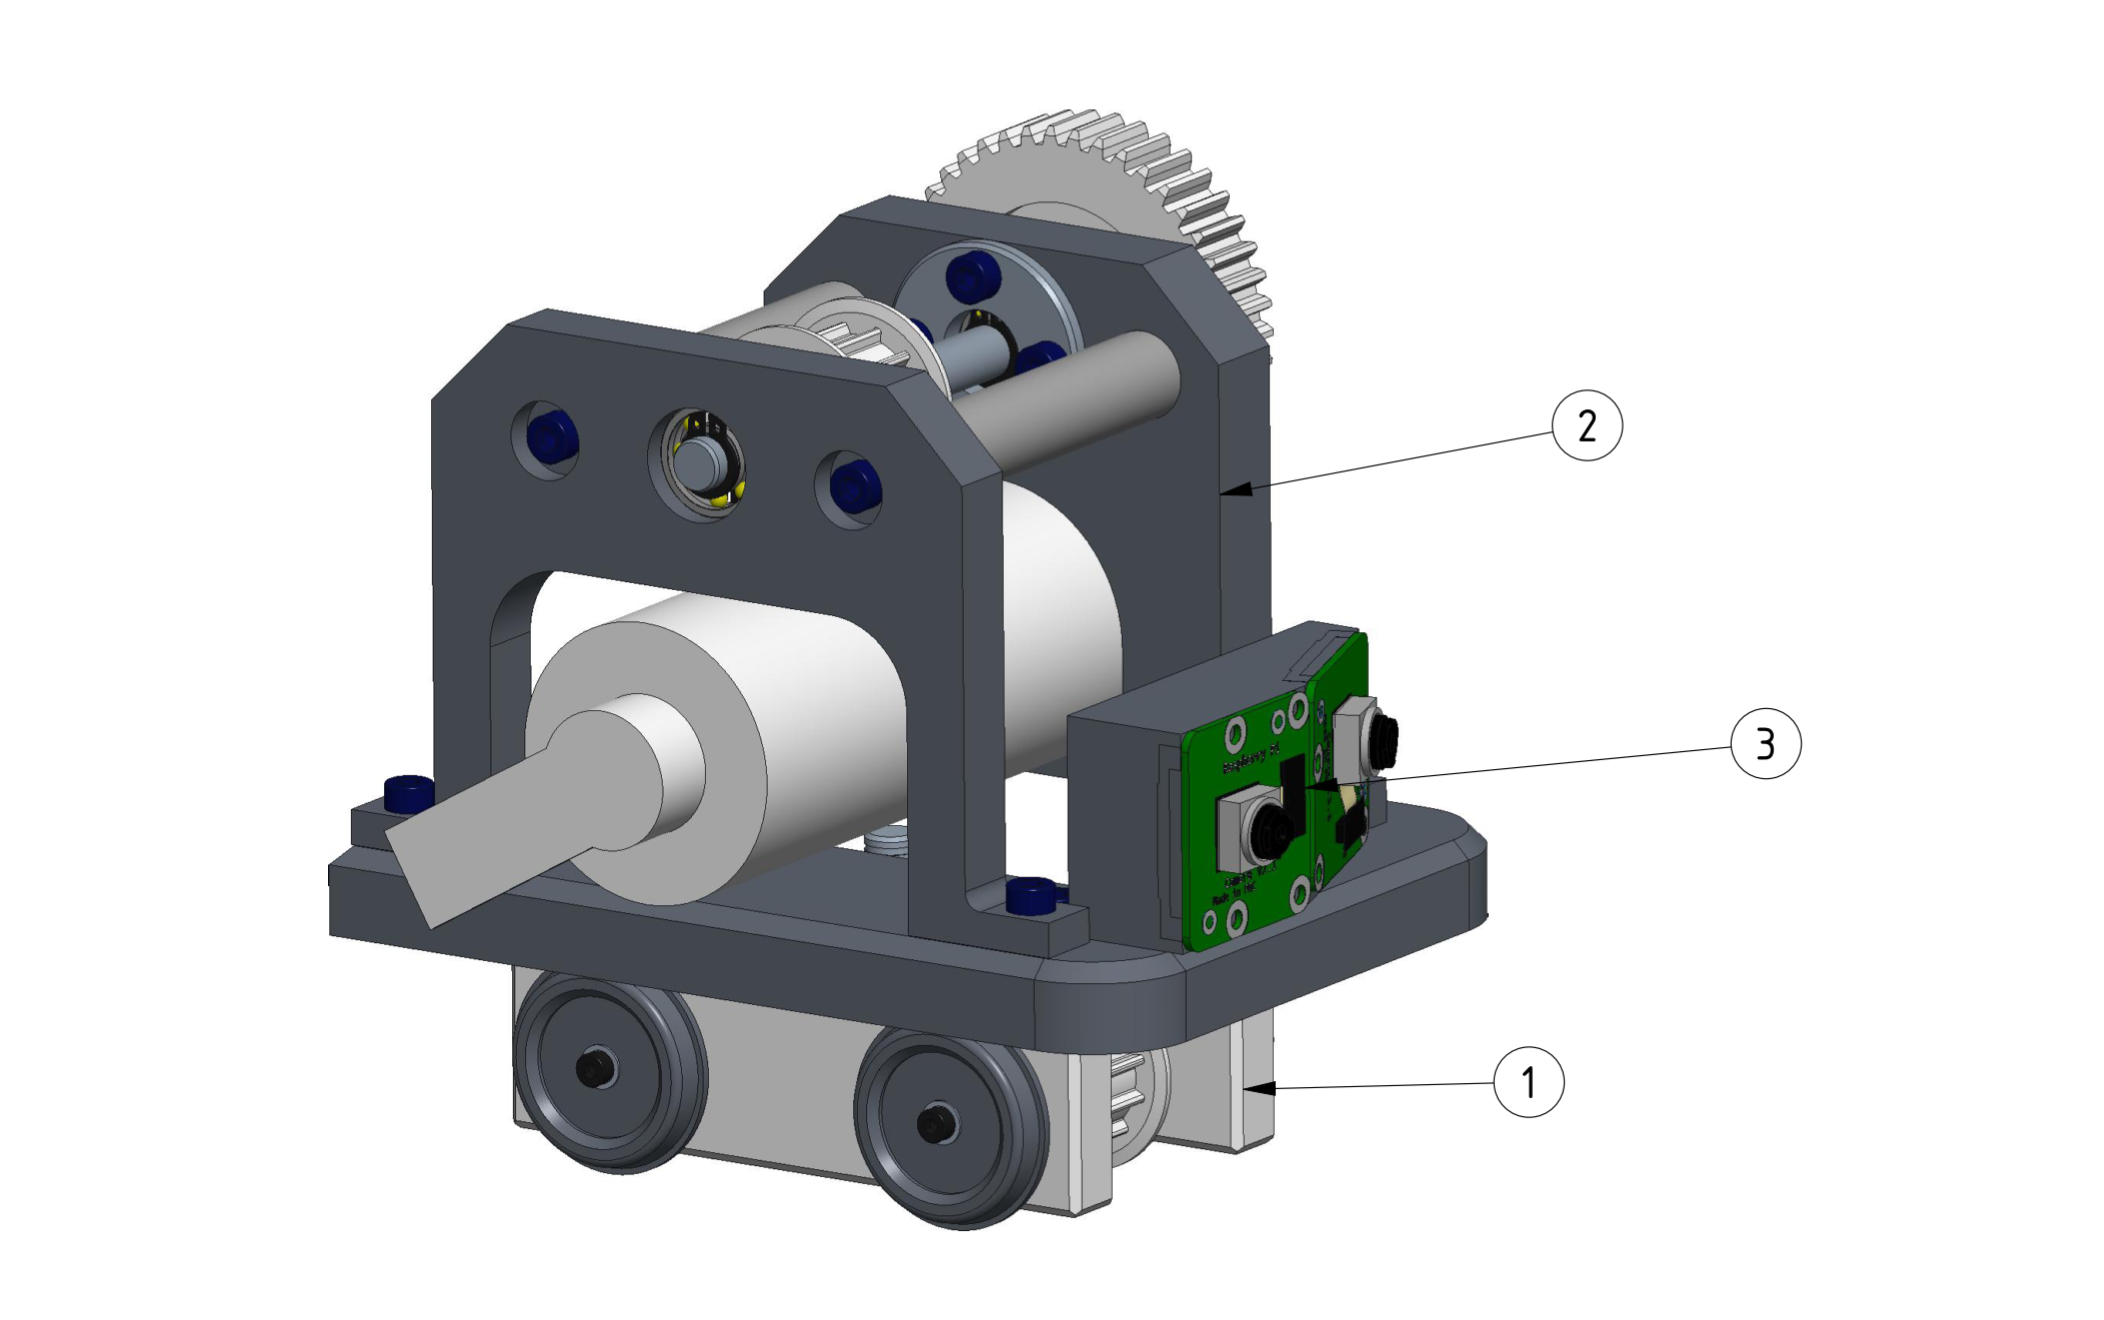
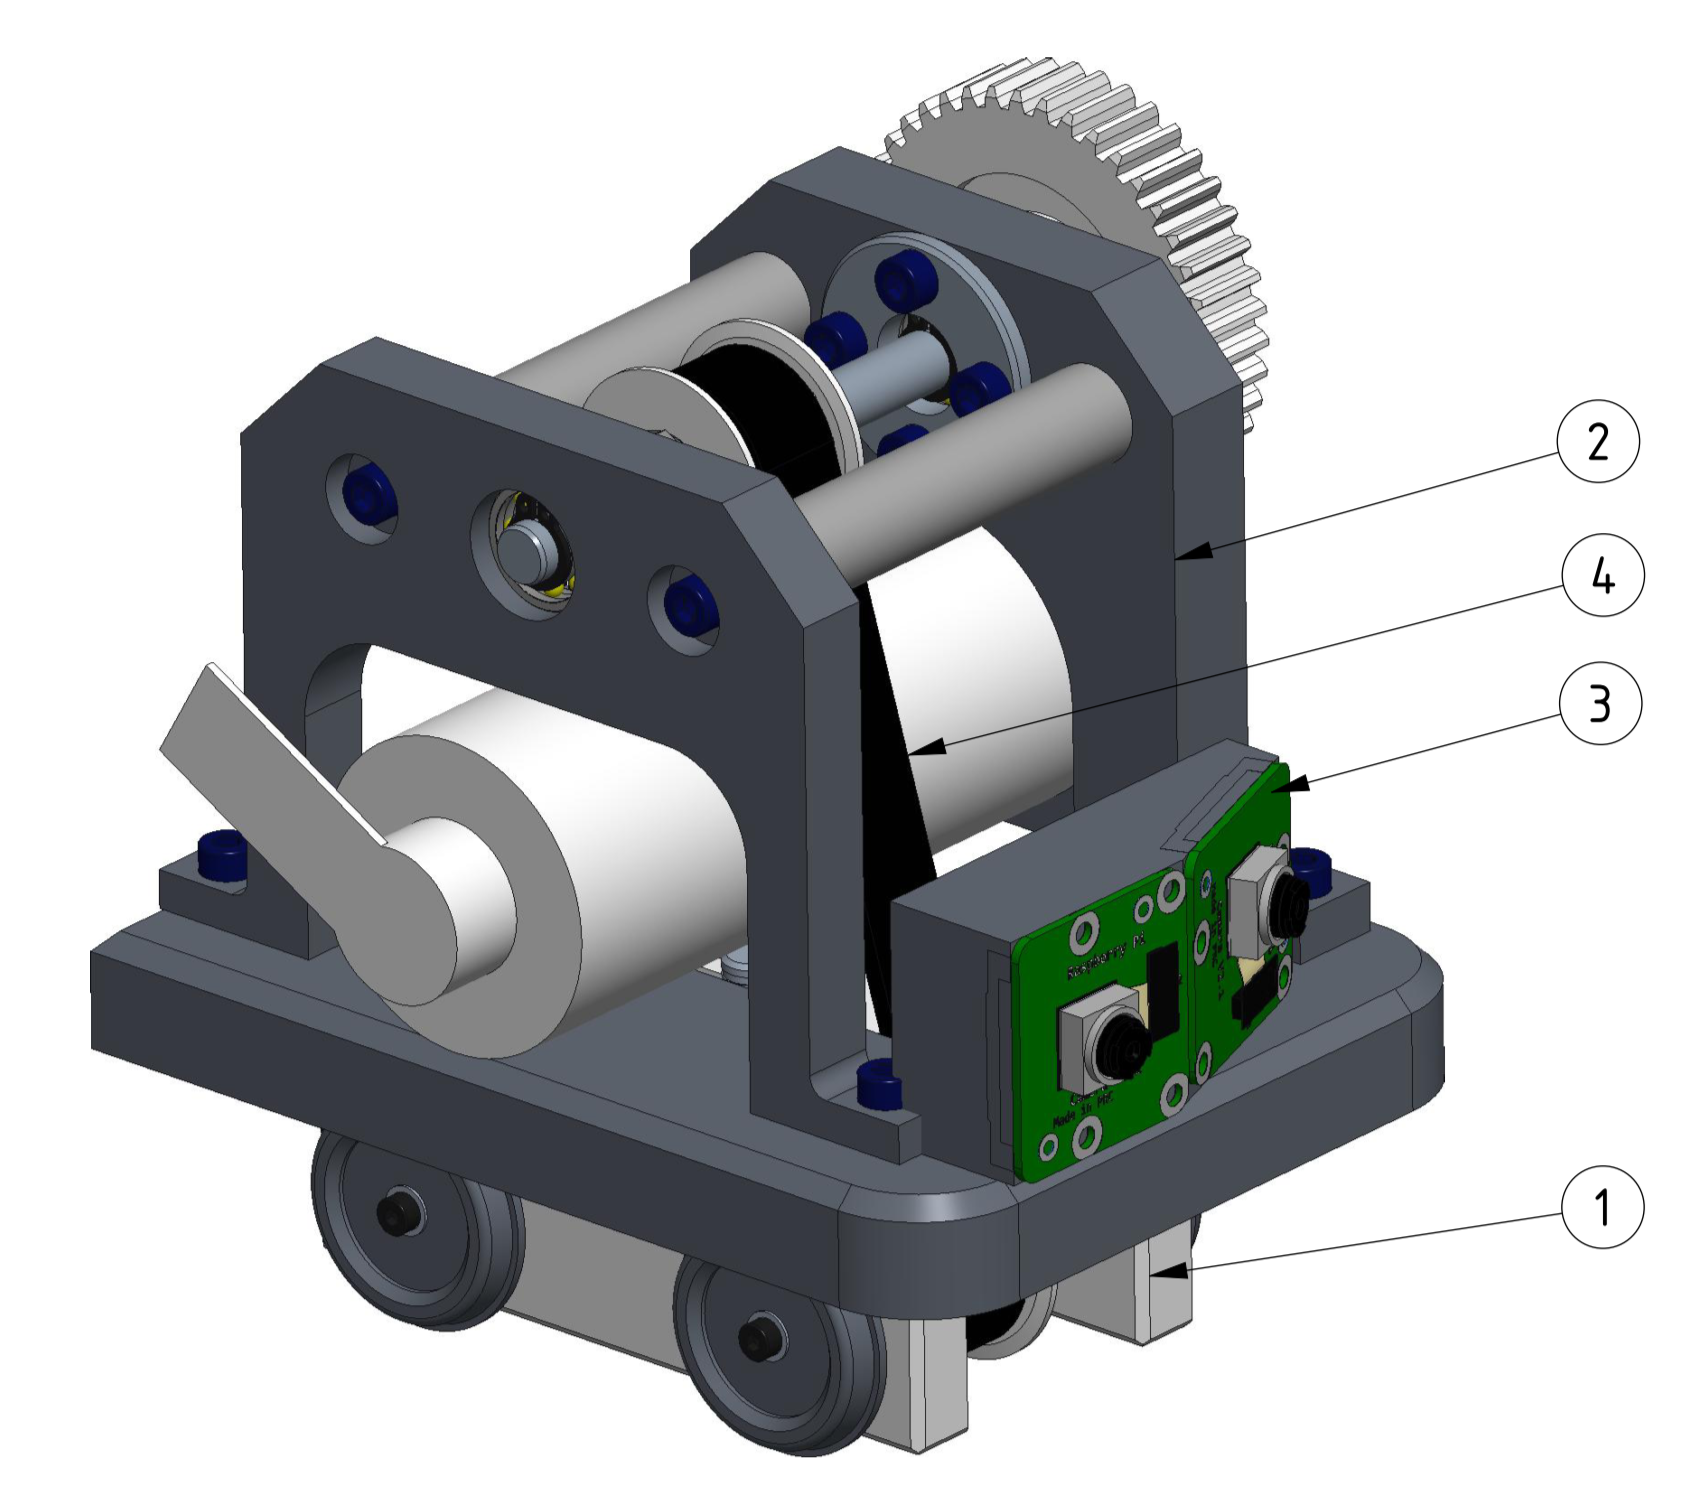
Anpassungen Fahrwerk

diff --git a/docu/sections/03_Loesungskonzepte/Fahrwerk.tex b/docu/sections/03_Loesungskonzepte/Fahrwerk.tex
@@ -13,7 +13,7 @@
 
     \begin{figure}[H] %Lokomotive mit Positionsnummern
         \centering
-        \includegraphics[width=0.9\textwidth]{Lokomotive.png}
+        \includegraphics[width=0.7\textwidth]{Lokomotive.png}
         \caption{Baugruppe Lokomotive}
         \label{fig:bg_lokomotive}
     \end{figure}
@@ -33,27 +33,27 @@
         \hline
         \end{tabular}
 
-        \caption{Positionsnummern der Lokomotive mit Bezeichnungen}
+        \caption{Positionsnummern der Lokomotive}
         \label{tab:bg_lokomotive}
     \end{table}
 
-    In der Querschnittsdarstellung in Abbildung \ref{fig:schnitt_lokomotive} ist die Lagerungen zwischen dem Ladungsträger und dem Antriebswagen beziehungsweise dem Führungswagen besser sichtbar. Ebenfalls sieht man gut, wie der Antriebswagen mit Zahnriemen angetrieben wird. Der Aufbau der Unterbaugruppen wird in den nächsten Abschnitten vorgestellt.\\
+    In der Querschnittsdarstellung in Abbildung \ref{fig:schnitt_lokomotive} ist die Lagerungen zwischen dem Ladungsträger und dem Antriebswagen beziehungsweise dem Führungswagen besser sichtbar. Ebenfalls ist ersichtlich, wie der Antriebswagen durch einen Zahnriemen angetrieben wird. Der Aufbau der einzelnen Unterbaugruppen wird in den nächsten Abschnitten vorgestellt.\\
 
     \begin{figure}[H] %Lokomotive im Schnitt
         \centering
         \includegraphics[width=0.7\textwidth]{lokomotive_2.png}
-        \caption{Schnittansicht der Lokomotivenbaugruppe}
+        \caption{Schnittansicht der Lokomotive}
         \label{fig:schnitt_lokomotive}
     \end{figure}
     \newpage
 
-    \subsubsection{Antriebswagen}
+    \subsubsection{Antriebs- und Führungswagen}
     Der Grundaufbau der beiden Wägen ist derselbe, mit dem Unterschied, dass der Antriebswagen durch einen Motor angetrieben wird. Der Grundwagen beziehungsweise der Führungswagen in Abbildung \ref{fig:expl_fuehrungswagen} (siehe Tabelle \ref{tab:expl_fuehrungswagen}) besteht aus einem Rahmen und einer Platte, welche miteinander verstiftet (Position 2) und verschraubt (Position 3) sind. Im Rahmen werden die beiden Achsen jeweils mit einem Los- (Position 7) und einem Festlager (Position 8) gelagert und mit Sicherungsringen (Position 6) gesichert. Die Achsen sind an beiden Enden mit einem Gewinde versehen, damit die Räder bei Bedarf schnell und einfach gewechselt werden können, ohne dass der ganze Wagen auseinander genommen werden muss. Die Anfräsfläche auf der Welle (Position 5) dient für das bessere Befestigen der Räder mit einen Gabelschlüssel.\\
 
      \begin{figure}[H] %Führungswagen
         \centering
-        \includegraphics[width=0.9\textwidth]{Fuehrungswagen.png}
-        \caption{Explosionsdarstellung Führungswagen}
+        \includegraphics[width=1\textwidth]{Fuehrungswagen.png}
+        \caption{Explosionsdarstellung Grundwagens}
         \label{fig:expl_fuehrungswagen}
     \end{figure}
 
@@ -78,7 +78,7 @@
         \hline
         \end{tabular}
 
-        \caption{Explosionsdarstellung Führungswagen}
+        \caption{Positionsnummern des Grundwagens}
         \label{tab:expl_fuehrungswagen}
         \end{table}
     \newpage
@@ -87,7 +87,7 @@
 
     \begin{figure}[H] %Antriebswagen
         \centering
-        \includegraphics[width=0.9\textwidth]{antriebswagen.png}
+        \includegraphics[width=0.7\textwidth]{antriebswagen.png}
         \caption{Baugruppe Antriebswagen}
         \label{fig:antriebswagen}
     \end{figure}
@@ -103,19 +103,21 @@
         \hline
         Position 3          & Kameras\\
         \hline
+        Position 4          & Zahnriemen\\
+        \hline
     \end{tabular}
 
-    \caption{Explosionsdarstellung Antriebswagen}
+    \caption{Positionsnummern des Antriebswagens}
     \label{tab:expl_antriebswagen}
     \end{table}
 
-    \newpage
+    \pagebreak
 
     Die Antriebseinheit in Abbildung \ref{fig:antriebseinheit} (siehe Tabelle \ref{tab:pos_antriebseinheit}) besteht aus einem Grundgestell, an welchem die Lagerung der Antriebswelle und der Motor angebracht sind. Das Drehmoment vom Motor wird über ein geradverzahntes Zahnrad mit einem Übersetzungsverhältnis von 1:2 auf eine Achse übertragen. Von dieser wird es über einen Riemen auf die beiden Radachsen und somit auf die Räder weitergeleitet. Durch die Berechnung der maximalen Geschwindigkeit wird entsprechend der Motor ausgelegt. Dies wird im nächsten Abschnitt genauer beschrieben.\\
 
     \begin{figure}[H] %Antriebseinheit
         \centering
-        \includegraphics[width=0.9\textwidth]{antriebseinheit.png}
+        \includegraphics[width=1\textwidth]{antriebseinheit.png}
         \caption{Explosionsdarstellung Antriebseinheit}
         \label{fig:antriebseinheit}
     \end{figure}
@@ -127,7 +129,7 @@
         \hline
         Position 1          & Spannsatz\\
          \hline
-        Position 2          & Zahnräder Übersetzung 1:2\\
+        Position 2          & Zahnräder (Übersetzung 1:2)\\
         \hline
         Position 3          & Motorhalterung\\
         \hline
@@ -159,10 +161,10 @@
         \label{tab:pos_antriebseinheit}
         \end{table}
 
-    \newpage
+    \pagebreak
 
     \textbf{Beschleunigungsberechnung}\\
-    Wie schnell die Lokomotive beschleunigen kann hängt von der Reibung zwischen Rad und Schiene und der Masse des Zuges ab. Die Grunddefinition der Beschleunigung ist der Quotient von Kraft und Masse. Die Reibung ist durch den Reibkoeffizienten bestimmt, welcher sich von Materialpaarung zu Materialpaarung unterscheidet. Zusätzlich ist der Reibkoeffizient von der Oberflächenbeschaffenheit, der Rauigkeit, abhängig. Je grösser die Rauigkeit, desto mehr Reibung entsteht und desto schneller kann beschleunigt werde. Die Kraft, um das Fahrzeug aus dem Stillstand zu beschleunigen ist grösser, als wenn es bei einer gewissen Geschwindigkeit weiter beschleunigt wird. Dies ist auf Grund des Trägheitsmomentes des Zuges. \\ %ist das wirklich so?
+    Wie schnell die Lokomotive beschleunigen kann hängt von der Reibung zwischen Rad und Schiene und der Masse des Zuges ab. Die Grunddefinition der Beschleunigung ist der Quotient von Kraft und Masse. Die Reibung ist durch den Reibkoeffizienten bestimmt, welcher sich von Materialpaarung zu Materialpaarung unterscheidet. Zusätzlich ist der Reibkoeffizient von der Oberflächenbeschaffenheit, der Rauigkeit, abhängig. Je grösser die Rauigkeit, desto mehr Reibung entsteht und desto schneller kann beschleunigt werden.
 
     \begin{table}[H] \centering
         \begin{tabular}{|l|l|l|}
@@ -179,11 +181,11 @@
         \hline
         \end{tabular}
 
-        \caption{Reibungskoeffizienten verschiedener Materialpaarungen}
+        \caption{Reibungskoeffizienten von Materialpaarungen (durch Versuche ermittelt)}
         \label{tab:com_tiny_pi}
         \end{table}
 
-    Um die maximale Beschleunigung zu berechnen, wird das Gesamtgewicht der Lokomotive auf die vier Räder aufgeteilt. In der Tabelle \ref{tab:groessen_beschleunigung} sind die gegeben Grössen für die nachfolgenden Berechnungen aufgelistet.\\
+    Um die maximale Beschleunigung zu berechnen, wird das Gesamtgewicht der Lokomotive auf die vier Räder aufgeteilt. In der Tabelle \ref{tab:groessen_beschleunigung} sind die gegeben Grössen für die nachfolgenden Berechnungen aufgelistet. Sie sind durch getroffene Annahmen entstanden, da noch nicht alle Koponenten und die dazugehörige Massen festgelgt sind.\\
 
     \begin{table}[H] \centering
         \begin{tabular}{|l|l|}
@@ -200,13 +202,14 @@
         \label{tab:groessen_beschleunigung}
         \end{table}
 
-    $F_{Rad}=\frac{F_{G}}{8}=\frac{m \cdot g=3kg \cdot 9.81m/s^2}{8}=0.375N$\\
+    $$F_{Rad}=\frac{F_{G}}{8}=\frac{m \cdot g=3kg \cdot 9.81m/s^2}{8}=0.375N$$
 
-    $F_{Reibung}=F_{Rad} \cdot k=0.375N \cdot 0.3=0.1125N$\\
+    $$F_{Reibung}=F_{Rad} \cdot k=0.375N \cdot 0.3=0.1125N$$
 
-    $M_{Rad}=F_{Rad} \cdot 2\cdot D_{Rad}= 0.1125N \cdot 2 \cdot 30mm = 6.75mNm$\\
+    $$M_{Rad}=F_{Rad} \cdot 2\cdot D_{Rad}= 0.1125N \cdot 2 \cdot 30mm = 6.75mNm$$
 
-    $a_{max}=\frac{F_{Reibung}}{\frac{F_{Rad}}{g}}=\frac{0.1125N}{\frac{0.375N}{9.81m/s^2}}=2.94m/s^2$\\
+    $$a_{max}=\frac{F_{Reibung}}{\frac{F_{Rad}}{g}}=\frac{0.1125N}{\frac{0.375N}{9.81m/s^2}}=2.94m/s^2$$
+    \\
 
     \label{GeschwindigkeitsberechnungFahrwerk}
     \textbf{Geschwindigkeitsberechnung}\\
@@ -235,26 +238,25 @@
         \label{tab:geschwindigkeitsberechnung}
         \end{table}
 
-    Die Gewichts- und Zentripedalkraft, welche das Gleichungssystem bilden, sind wie folgt definiert:\\
+    Die Gewichts- und Zentripedalkraft, welche das Gleichungssystem bilden, sind wie folgt definiert:
 
-    $F_{G}=m \cdot g=3kg \cdot 9.81m/s^2=29.4N$\\
+    $$F_{G}=m \cdot g=3kg \cdot 9.81m/s^2=29.4N$$
 
-    $F_{max z}=\frac{m \cdot v^2}{r}=\frac{3kg \cdot (1.28m/s)^2}{0.8}$\\
+    $$F_{max z}=\frac{F_{G} \cdot x}{y}=\frac{29.4N \cdot 0.025m+9.2N \cdot a}{0.08m}=9.2N$$
+    \\
+    Da das Drehmoment eine vektorielle Grösse ist, müssen die beiden entstehenden Momente am Drehpunkt ''P'' am Gleis zusammen Null ergeben. Oder anders gesagt müssen die beiden Momente gleich gross sein, damit das System ''statisch'' bestimmt ist. Die Berechnungen sind auf den kleinsten Kurvenradius ausgelegt, da dort die grösste Zentripedalkraft entsteht. Somit ergibt sich eine maximale Geschwindigkeit von 1.28 Meter pro Sekunde.
 
-    Da das Drehmoment eine vektorielle Grösse ist, müssen die beiden entstehenden Momente am Drehpunkt ''P'' am Gleis zusammen Null ergeben. Oder anders gesagt müssen die beiden Momente gleich gross sein, damit das System ''statisch'' bestimmt ist. Die Berechnungen sind auf den kleinsten Kurvenradius ausgelegt, da dort die grösste Zentripedalkraft entsteht.\\
-    % Nun werden die ob\\ % --> wird das benötigt?
+    $$F_{max z}=\frac{m \cdot v_{max}^2}{r}=\frac{3kg \cdot (1.28m/s)^2}{0.8}$$
 
-    $F_{max z}=\frac{F_{G} \cdot x}{y}=\frac{29.4N \cdot 0.025m+9.2N \cdot a}{0.08m}=9.2N$\\
+    $$v_{max}=\sqrt\frac{m \cdot v^2}{r}=\sqrt\frac{3kg \cdot (1.28m/s)^2}{0.8}$$
+
         \pagebreak
     \subsubsection{Ladungsträger}
-    Der Ladungsträger ist das Verbindungselement von Antriebswagen und Führungswagen. Er wird an beiden Enden drehbar mit je einem Radial- und Axialkugelager gelagert. Der Träger besteht aus drei Teilen (siehe Abbidlung \ref{fig:expl_ladungstraeger}). Der Hauptgrund ist die einfachere, materialsparende sowie kostengünstigere Herstellung.\\
-    % Andererseits muss der Träger \\ % --> muss der Träger was????
-
-    %Berechnung Kugellagerkräfte Radial wie auch Axial
+    Der Ladungsträger ist das Verbindungselement von Antriebswagen und Führungswagen. Er wird an beiden Enden drehbar mit je einem Radiallager gelagert. Die Flächen reiben Der Träger besteht aus drei Teilen (siehe Abbidlung \ref{fig:expl_ladungstraeger}). Der Hauptgrund ist die einfachere, materialsparende sowie kostengünstigere Herstellung.\\
 
     \begin{figure}[H] %Ladungsträger
         \centering
-        \includegraphics[width=0.9\textwidth]{ladungstraeger.png}
+        \includegraphics[width=1\textwidth]{ladungstraeger.png}
         \caption{Explosionsdarstellung Ladungsträger}
         \label{fig:expl_ladungstraeger}
     \end{figure}

diff --git a/docu/main.tex b/docu/main.tex
@@ -63,7 +63,7 @@
                 \vspace{1.5cm}
                 \begin{figure}[H] %Titelbild
                     \centering
-                    \includegraphics[width=0.8\textwidth]{images/uebersicht_Zug.png}
+                    \includegraphics[width=1\textwidth]{images/soultrain.png}
                 \end{figure}
                 \vspace{3cm}
                 \begin{large} %Datumsvariable

diff --git a/docu/Redlichkeitserklaerung.tex b/docu/Redlichkeitserklaerung.tex
@@ -24,7 +24,7 @@ Eingereicht in Horw, am 11. Januar 2019\\
         Joel Grepper\\
     \end{figure}
     \begin{figure}[H]
-        \includegraphics[height=1cm,]{AR}\\
+        \includegraphics[height=1cm,]{MO}\\
         Manuel Omlin\\
     \end{figure}
     \begin{figure}[H]
